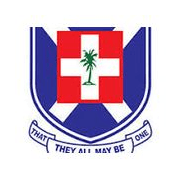
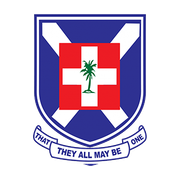
Use the full PCG crest across the site
- Replace the cropped crest JPG with the complete crest as a
  transparent PNG (background removed, white cross and scroll kept).
- Enlarge the crest in the site header to suit its taller shape.
- Regenerate the favicon and Apple touch icon from the full crest.
- Show the crest in the church office header and sign-in page.

diff --git a/src/app/admin/login/page.tsx b/src/app/admin/login/page.tsx
@@ -1,3 +1,4 @@
+import Image from "next/image";
 import type { Metadata } from "next";
 import Link from "next/link";
 import { redirect } from "next/navigation";
@@ -8,5 +9,5 @@ export const metadata: Metadata = { title: "Church Office Sign In", robots: { in
 export default async function AdminLoginPage() {
   const enabled = Boolean(process.env.NEXT_PUBLIC_SUPABASE_URL && process.env.NEXT_PUBLIC_SUPABASE_PUBLISHABLE_KEY);
   if (enabled && await getAdmin()) redirect("/admin");
-  return <div className="admin-page admin-auth-page"><main className="admin-auth-panel"><Link className="admin-brand" href="/"><span aria-hidden="true">✝</span><span>Peace Be Congregation<small>Church office</small></span></Link><div><p className="admin-overline">Authorised staff only</p><h1>Welcome back.</h1><p>Sign in to publish church updates and manage the public website.</p></div><LoginForm enabled={enabled} /><Link className="admin-back-link" href="/">← Return to the public website</Link></main><aside className="admin-auth-aside"><blockquote>“Let all things be done decently and in order.”</blockquote><cite>1 Corinthians 14:40</cite></aside></div>;
+  return <div className="admin-page admin-auth-page"><main className="admin-auth-panel"><Link className="admin-brand" href="/"><Image src="/images/pcg-crest.png" alt="" width={211} height={281} className="admin-crest" /><span>Peace Be Congregation<small>Church office</small></span></Link><div><p className="admin-overline">Authorised staff only</p><h1>Welcome back.</h1><p>Sign in to publish church updates and manage the public website.</p></div><LoginForm enabled={enabled} /><Link className="admin-back-link" href="/">← Return to the public website</Link></main><aside className="admin-auth-aside"><blockquote>“Let all things be done decently and in order.”</blockquote><cite>1 Corinthians 14:40</cite></aside></div>;
 }

diff --git a/src/components/admin/admin-shell.tsx b/src/components/admin/admin-shell.tsx
@@ -1,7 +1,8 @@
+import Image from "next/image";
 import Link from "next/link";
 import { logout } from "@/app/admin/actions";
 
 const nav = [{ href: "/admin", label: "Overview" }, { href: "/admin/content", label: "Content" }];
 export function AdminShell({ email, children }: { email: string; children: React.ReactNode }) {
-  return <div className="admin-page admin-shell"><aside className="admin-sidebar"><Link className="admin-brand" href="/admin"><span aria-hidden="true">✝</span><span>Peace Be<small>Church office</small></span></Link><nav aria-label="Church office">{nav.map(item => <Link href={item.href} key={item.href}>{item.label}</Link>)}<Link href="/" target="_blank">View website ↗</Link></nav><div className="admin-account"><span>{email}</span><form action={logout}><button type="submit">Sign out</button></form></div></aside><div className="admin-workspace">{children}</div></div>;
+  return <div className="admin-page admin-shell"><aside className="admin-sidebar"><Link className="admin-brand" href="/admin"><Image src="/images/pcg-crest.png" alt="" width={211} height={281} className="admin-crest" /><span>Peace Be<small>Church office</small></span></Link><nav aria-label="Church office">{nav.map(item => <Link href={item.href} key={item.href}>{item.label}</Link>)}<Link href="/" target="_blank">View website ↗</Link></nav><div className="admin-account"><span>{email}</span><form action={logout}><button type="submit">Sign out</button></form></div></aside><div className="admin-workspace">{children}</div></div>;
 }

diff --git a/src/app/globals.css b/src/app/globals.css
@@ -2,7 +2,7 @@
 
 /*
  * Brand tokens. The default Tailwind palette is removed so only these colours exist.
- * Blue, red and green are sampled from the official PCG crest (public/images/pcg-crest.jpg).
+ * Blue, red and green are sampled from the official PCG crest (public/images/pcg-crest.png).
  */
 @theme {
   --color-*: initial;
@@ -247,7 +247,7 @@ body:has(.admin-page) h3 { font-family: var(--font-inter), sans-serif; color: va
 .admin-auth-aside blockquote { font-family: var(--font-source-serif), Georgia, serif; font-size: clamp(2rem, 4vw, 3.7rem); line-height: 1.15; text-wrap: balance; }
 .admin-auth-aside cite { margin-top: 28px; font-style: normal; color: oklch(0.82 0.035 255); }
 .admin-brand { display: inline-flex; align-items: center; gap: 13px; color: var(--color-navy); font-weight: 700; line-height: 1.15; min-height: 48px; }
-.admin-brand > span:first-child { display: grid; place-items: center; width: 38px; height: 38px; color: white; background: var(--color-brand); border-radius: 5px; font-size: 22px; }
+.admin-crest { width: auto; height: 44px; flex-shrink: 0; }
 .admin-brand small { display: block; color: var(--color-muted); font-size: 13px; font-weight: 500; margin-top: 3px; }
 .admin-auth-panel > div { margin-block: clamp(45px, 8vw, 90px) 34px; }
 .admin-overline, .admin-page-header p { color: var(--color-brand); font-size: 14px; font-weight: 650; margin-bottom: 10px; }

diff --git a/src/components/layout/site-header.tsx b/src/components/layout/site-header.tsx
@@ -40,7 +40,7 @@ export async function SiteHeader() {
               <span className="truncate">
                 <span className="text-white/75">Next service: </span>
                 <span className="font-semibold">{office.nextService.label}</span>
-                <span className="hidden text-white/75 md:inline"> · {office.nextService.name}</span>
+                <span className="hidden text-white/75 md:inline"> Â· {office.nextService.name}</span>
               </span>
             </Link>
           ) : (
@@ -65,12 +65,12 @@ export async function SiteHeader() {
         <Container className="flex min-h-18 items-center justify-between gap-2 py-2 sm:gap-3">
           <Link href="/" className="tap flex min-w-0 items-center gap-2 rounded-sm sm:gap-3">
             <Image
-              src="/images/pcg-crest.jpg"
+              src="/images/pcg-crest.png"
               alt=""
-              width={177}
-              height={148}
+              width={211}
+              height={281}
               preload
-              className="h-9 w-auto shrink-0 sm:h-12"
+              className="h-11 w-auto shrink-0 sm:h-14"
             />
             <span className="flex flex-col leading-tight">
               <span className="text-xs/tight font-medium text-muted sm:tracking-wide sm:uppercase lg:max-xl:sr-only">

diff --git a/CLAUDE.md b/CLAUDE.md
@@ -17,7 +17,7 @@ Website and church management system for the Presbyterian Church of Ghana, Peace
 
 Presbyterian Church of Ghana identity. The brand colors are red, white, blue, and green, and no others. Neutrals are used only for text and backgrounds.
 
-Logo: the official PCG crest, `public/images/pcg-crest.jpg`.
+Logo: the official PCG crest, `public/images/pcg-crest.png` (transparent background).
 
 Tailwind tokens (blue, red and green sampled from the crest):
 

diff --git a/public/images/CREDITS.md b/public/images/CREDITS.md
@@ -2,6 +2,6 @@
 
 `peace-be-building.webp`, `peace-be-building-side.webp`: architectural renderings of the Peace Be Congregation building, supplied by the congregation.
 
-`pcg-crest.jpg`: official Presbyterian Church of Ghana crest, supplied by the congregation.
+`pcg-crest.png`: official Presbyterian Church of Ghana crest, supplied by the congregation.
 
 `pcg-theme-2026.jpg`: Presbyterian Church of Ghana 2026 theme banner, supplied by the congregation.
